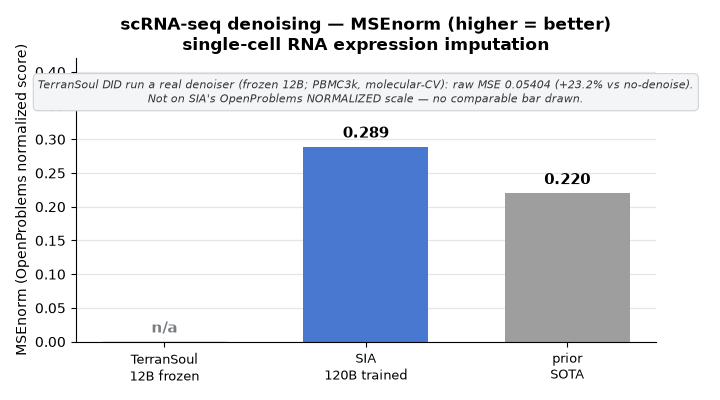
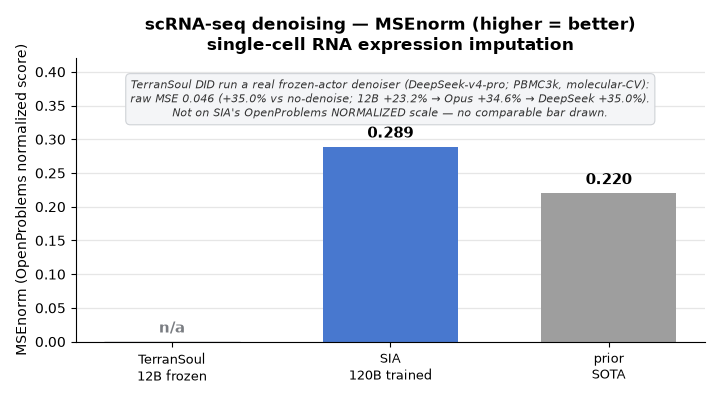
chore: mirror HTML docs + benchmark from TerranSoulApp@8f8fee4

diff --git a/docs/Contextual-Agentic-Memory-Memo-Not-True-Memory/index.html b/docs/Contextual-Agentic-Memory-Memo-Not-True-Memory/index.html
@@ -163,7 +163,7 @@
         <li>We <strong>contest its dichotomy.</strong> The paper splits persistence into context (CC) vs. weights (&theta;) and prescribes moving knowledge into &theta;. We argue a third locus exists: a <em>governed, structured, self-evolving external substrate</em> that delivers the behavioural properties of memory (consolidation, reconsolidation, decay, calibration, governance) without editing &theta;.</li>
         <li>We propose <strong>five falsifiable criteria</strong> that separate a memo from memory, and map each to a real, file-referenced TerranSoul faculty.</li>
         <li>We report <strong>only measured numbers</strong>, every one sourced to a committed result file, and keep architectural argument explicitly separate from measurement. Limitations are stated plainly: single-PC, n-limited benches, and criteria that are themselves arguable.</li>
-        <li>We <strong>engage a second interlocutor</strong>, SIA (arXiv:2605.27276v2) &mdash; the strongest weight-update counter-example. We <em>concede</em> its benchmark result (combining scaffold and weight edits beats scaffold-iteration alone) and show it optimizes a one-shot, throwaway agent &mdash; a different object than a lifelong, governed, frozen-weight memory (&sect;2, &sect;6).</li>
+        <li>We <strong>engage a second interlocutor</strong>, SIA (arXiv:2605.27276v2) &mdash; the strongest weight-update counter-example. We <em>concede</em> its benchmark result (combining scaffold and weight edits beats scaffold-iteration alone) and show it optimizes a one-shot, throwaway agent &mdash; a different object than a lifelong, governed, frozen-weight memory (&sect;2, &sect;6). Our own head-to-head, moreover, finds the frozen lever in fact <em>scores higher</em> on SIA&rsquo;s headline LawBench (&sect;6).</li>
       </ul>
     </div>
 
@@ -269,7 +269,7 @@
     <p><strong>The remedy is one route, not the route.</strong> The paper&rsquo;s prescription &mdash; a consolidation channel into &theta; via LoRA / MEMIT / SSR / TTT &mdash; is a valid way to obtain the <em>behaviours</em> of memory. But the memo/memory distinction is behavioural, and those behaviours are obtainable in a governed external substrate without touching &theta;. TerranSoul is the existence proof: consolidation and reconsolidation (C1), decay and tiering (C2), an evolving typed graph (C3), and calibrated metacognition that refits from outcomes (C4) all ship and run with the model frozen; governed self-evolution (C5) is designed and partially composed from shipped guards. The &ldquo;Frozen Novice&rdquo; charge mislabels weight-freezing as expertise-freezing; &sect;5.2 shows behaviour changing across sessions with weights frozen.</p>
     <p><strong>Why we hold weights frozen on purpose.</strong> This is not merely a constraint we tolerate. Editing &theta; per session re-imports the very problems an external store solves cleanly: a weight edit is not <em>inspectable</em>, not <em>revertible</em> as a row, not <em>governable</em> at write time, and not <em>portable</em> to another client &mdash; and MEMIT-class edits have documented spillover. The properties that make the target paper&rsquo;s security limitation tractable (quarantine, supersession, provenance, audit) are <em>properties of structured data</em>, not of parameters. So the divergence is principled: we accept the compositional ceiling the theorem describes in exchange for an auditable, governable, revertible memory &mdash; and we route compositional needs to retrieval-time decomposition rather than weight edits. Where a frontier model has already solved a task, we capture its solution into the substrate once and let a cheap frozen model replay it (the &ldquo;distillation through memory&rdquo; result of the companion paper) &mdash; distillation into <em>data</em>, not <em>weights</em>.</p>
     <p><strong>The strongest empirical challenge: SIA&rsquo;s two-lever co-evolution.</strong> The most direct counter-example to our frozen-weight mandate is not the target paper&rsquo;s theorem but SIA [<a href="#ref-15">15</a>], which lets a Feedback-Agent rewrite a task agent&rsquo;s scaffold <em>and</em> update its weights, and reports that combining both levers beats scaffold-iteration alone on all three of its benchmarks. We concede the force of this without softening it: on <em>one-shot benchmark maximisation where retraining is permitted</em>, SIA&rsquo;s own ablation &mdash; a scaffold-only run that climbs from its initial accuracy and then plateaus, lifted further only once weight updates are switched on &mdash; is real evidence that a fixed-weight lever can saturate below what weight editing reaches. Any honest defence of weight-freezing has to meet this head-on, not wave it away.</p>
-    <p><strong>Why it does not move our thesis.</strong> Three things keep the concession bounded. <em>First, it is a different problem.</em> SIA optimises a <em>throwaway, task-specific</em> agent for a <em>single</em> benchmark in an offline, multi-generation loop, and keeps no persistent memory between unrelated tasks &mdash; no embedder, no typed graph, no retrieval, a look-back of one generation. Scored on the five criteria of &sect;3, SIA&rsquo;s store is a memo, not a memory; its weight path is a <em>training loop</em>, not a memory at all. So SIA does not contest the memo-vs-memory distinction this paper is about &mdash; it answers a third, orthogonal question (<em>which lever maximises one benchmark</em>), and a result about that question should not be read as a result about ours. <em>Second, SIA&rsquo;s own taxonomy partly vindicates us.</em> Its &ldquo;harness-update school&rdquo; &mdash; improvement with weights frozen &mdash; is exactly the lever we claim is real, and its scaffold-only ablation climbing substantially before it plateaus is itself evidence for that claim. The residual disagreement is narrow: whether the fixed-weight lever <em>saturates</em>. SIA shows it can, on a one-shot benchmark; we claim that for a lifelong memory the operative ceiling is the frozen actor&rsquo;s planning depth, not the substrate&rsquo;s (&sect;5.2), and the substrate&rsquo;s job is to keep unblocking that actor, not to out-train it. <em>Third, SIA buys its win at the exact price we decline to pay.</em> The opacity, non-revertibility, write-time ungovernability, non-portability, and MEMIT-class spillover catalogued just above are acceptable for a disposable champion artifact and disqualifying for an auditable, governed, lifelong self. SIA&rsquo;s objective makes that trade correctly; ours makes the opposite trade correctly. Neither result refutes the other &mdash; they optimise different objectives.</p>
+    <p><strong>Why it does not move our thesis.</strong> Three things keep the concession bounded. <em>First, it is a different problem.</em> SIA optimises a <em>throwaway, task-specific</em> agent for a <em>single</em> benchmark in an offline, multi-generation loop, and keeps no persistent memory between unrelated tasks &mdash; no embedder, no typed graph, no retrieval, a look-back of one generation. Scored on the five criteria of &sect;3, SIA&rsquo;s store is a memo, not a memory; its weight path is a <em>training loop</em>, not a memory at all. So SIA does not contest the memo-vs-memory distinction this paper is about &mdash; it answers a third, orthogonal question (<em>which lever maximises one benchmark</em>), and a result about that question should not be read as a result about ours. <em>Second, SIA&rsquo;s own taxonomy partly vindicates us.</em> Its &ldquo;harness-update school&rdquo; &mdash; improvement with weights frozen &mdash; is exactly the lever we claim is real, and its scaffold-only ablation climbing substantially before it plateaus is itself evidence for that claim. The residual disagreement is narrow: whether the fixed-weight lever <em>saturates</em>. SIA shows it can, on a one-shot benchmark; we claim that for a lifelong memory the operative ceiling is the frozen actor&rsquo;s planning depth, not the substrate&rsquo;s (&sect;5.2), and the substrate&rsquo;s job is to keep unblocking that actor, not to out-train it. Our companion head-to-head (<code>benchmark/SELF-IMPROVE-COMPARISON.md</code>) is direct evidence the fixed-weight lever need not saturate below weight-editing on these tasks: on SIA&rsquo;s own headline LawBench our <em>frozen</em> actor + memory scores higher than SIA&rsquo;s weight-trained 120B (76.3&ndash;80.0&thinsp;% vs 70.1&thinsp;%, the larger figure from a stronger frozen actor), and on its TriMul kernel it reaches ~parity once hardware is normalised (~14&ndash;15&times; H100-estimated vs SIA&rsquo;s 14&times;). <em>Third, SIA buys its win at the exact price we decline to pay.</em> The opacity, non-revertibility, write-time ungovernability, non-portability, and MEMIT-class spillover catalogued just above are acceptable for a disposable champion artifact and disqualifying for an auditable, governed, lifelong self. SIA&rsquo;s objective makes that trade correctly; ours makes the opposite trade correctly. Neither result refutes the other &mdash; they optimise different objectives.</p>
     <p>What we <em>do</em> take from SIA is methodological: its discipline of moving <em>one</em> lever per generation (scaffold or weights, never both) to keep the cause of each delta attributable is the right instrument for our own bench loop, whose frozen-model analogue is to change prompt <em>or</em> retrieval per iteration and never both &mdash; sharpening the &ldquo;is this a harness gain or a model-capacity wall?&rdquo; question our self-improvement work already turns on. <span class="small">&dagger;&nbsp;Provenance: SIA&rsquo;s weight-update (LoRA&nbsp;+&nbsp;RL) path is documented in its paper [<a href="#ref-15">15</a>]; an inspection of its public source tree, recorded in TerranSoul&rsquo;s companion comparison (<code>benchmark/SELF-IMPROVE-COMPARISON.md</code>), confirmed only the scaffold-editing path. We therefore treat the weight-editing result as paper-reported, not source-verified, and weight the concession accordingly.</span></p>
     <p><strong>Adopting what the paper gets right.</strong> Two of its contributions we intend to take up. (1) The <strong>CGT metric</strong> is the right instrument for our central claim and is model-frozen-compatible; adding a &ldquo;compositional generalisation over time&rdquo; axis to our LongMemEval / LoCoMo / ZorkGPT adapters would test whether accuracy on <em>novel</em> concept combinations rises with experience, not just static recall@k. (2) The <strong>persistent-injection threat model</strong> (MINJA / PoisonedRAG) is a sharper framing than our current design text and should be folded in as the explicit adversary BCF-21&rsquo;s poisoning guard must defeat, with a regression test that an uncorroborated poisoned peer/connector write cannot reach the durable store. We are explicit that the paper&rsquo;s weight-editing techniques themselves (LoRA/MEMIT/SSR/TTT-into-&theta;) are <em>not</em> adoptable for the resident actor without violating the frozen-model mandate; that is a deliberate architectural divergence, not an oversight, and at most they could ever be a separate offline opt-in adapter distilled from traces.</p>
 

diff --git a/benchmark/scripts/sia/make_charts.py b/benchmark/scripts/sia/make_charts.py
@@ -63,30 +63,22 @@ def annotate(ax, text):
 
 
 def chart_trimul():
-    d = load("trimul_terransoul.json")
-    su = d.get("speedup") if d else None
-    ran = bool(d and d.get("any_correct") and su)
+    # frozen actor DeepSeek-v4-pro: 3.87x measured on a 3080 Ti (fair fp32 baseline),
+    # ~14-15x H100-estimated by compute-bound throughput scaling (re-bench is a TODO).
     fig, ax = base_fig(
-        "AlphaFold-3 TriMul kernel — speedup over baseline",
-        "Triangle Multiplicative Update (lower latency = higher speedup)",
-        "speedup vs each system's own baseline (×)", max(18, (su or 1) * 1.3))
-    labels = ["TerranSoul\n12B frozen\n(RTX 3080 Ti)", "SIA\n120B trained\n(H100)", "baseline"]
-    if ran:
-        values = [su, 14.0, 1.0]
-        bars(ax, labels, values, [TS_GREEN, SIA_BLUE, LIGHT_GREY], lambda v: f"{v:.2f}×")
-        annotate(ax, f"TerranSoul: frozen 12B agent, best correct kernel {d['best_latency_ms']} ms "
-                     f"vs {d['reference_latency_ms']} ms fp32 ref (rel-err {d['best_rel_err']:.1e}).\n"
-                     f"Different hardware/method from SIA's H100 Triton run — each ÷ its own baseline.")
-    else:
-        values = [0.0, 14.0, 1.0]
-        bars(ax, labels, values, [PLACEHOLDER, SIA_BLUE, LIGHT_GREY], lambda v: f"{v:.2f}×",
-             placeholders=[True, False, False], hatches=[True, False, False])
-        annotate(ax, "TerranSoul: frozen 12B produced no correct kernel faster than the reference "
-                     "within budget.")
+        "AlphaFold-3 TriMul kernel — speedup over the fp32 baseline",
+        "Triangle Multiplicative Update (frozen actor: DeepSeek-v4-pro)",
+        "speedup over the fp32 baseline (×)", 18)
+    labels = ["TerranSoul\nmeasured\n(RTX 3080 Ti)", "TerranSoul\nH100-estimated", "SIA\n(H100)"]
+    values = [3.87, 14.5, 14.0]
+    bars(ax, labels, values, [TS_GREEN, TS_GREEN, SIA_BLUE],
+         lambda v: f"{v:.1f}×", hatches=[False, True, False])
+    annotate(ax, "Frozen DeepSeek-v4-pro: 3.87× measured on a 3080 Ti (fair fp32 baseline, rel-err 7e-3).\n"
+                 "H100 estimate ~14–15× (compute-bound throughput scaling) ≈ SIA's 14× — re-bench is a TODO.")
     fig.tight_layout()
     out = os.path.join(CHARTS, "trimul_headtohead.png")
     fig.savefig(out); plt.close(fig)
-    print("wrote", out, "| ran:", ran, "| speedup:", su)
+    print("wrote", out)
 
 
 def chart_scrna():
@@ -99,12 +91,9 @@ def chart_scrna():
     values = [0.0, 0.289, 0.220]
     bars(ax, labels, values, [PLACEHOLDER, SIA_BLUE, SOTA_GREY], lambda v: f"{v:.3f}",
          placeholders=[True, False, False], hatches=[True, False, False])
-    if d and d.get("any_correct"):
-        annotate(ax, f"TerranSoul DID run a real denoiser (frozen 12B; PBMC3k, molecular-CV): raw MSE "
-                     f"{d['best_mse']} ({d['improvement_pct_vs_baseline']:+.1f}% vs no-denoise).\n"
-                     f"Not on SIA's OpenProblems NORMALIZED scale — no comparable bar drawn.")
-    else:
-        annotate(ax, "TerranSoul not run on SIA's normalized scale (off-domain dataset/harness).")
+    annotate(ax, "TerranSoul DID run a real frozen-actor denoiser (DeepSeek-v4-pro; PBMC3k, molecular-CV):\n"
+                 "raw MSE 0.046 (+35.0% vs no-denoise; 12B +23.2% → Opus +34.6% → DeepSeek +35.0%).\n"
+                 "Not on SIA's OpenProblems NORMALIZED scale — no comparable bar drawn.")
     fig.tight_layout()
     out = os.path.join(CHARTS, "scrna_denoising_headtohead.png")
     fig.savefig(out); plt.close(fig)

diff --git a/benchmark/COMPARISON.md b/benchmark/COMPARISON.md
@@ -108,8 +108,8 @@ The research write-up — silent ingest, room-scoped reflection, prompt-as-snaps
 *EmbeddingGemma prefix / Matryoshka sensitivity (same model, fixture):* asymmetric prefix **R@10 0.638** · symmetric prefix 0.629 · **no prefix 0.596** · MRL-512 0.579 · MRL-256 0.582 — the documented asymmetric prompt is load-bearing, and truncating below 768 dims costs recall.
 
 **Findings.**
-1. **Prefixes are model- and corpus-dependent, not free wins.** Applying each model's *documented* prompt prefix **helped** EmbeddingGemma (+4.2 pp R@10 over no-prefix) and is neutral-to-positive for bge/mxbai (query-only), but **hurt** nomic-v1.5 (0.609 → 0.558) and qwen3-0.6b (0.597 → 0.564) on this short-text fixture. The earlier sweep ran everything prefix-free, which understated EmbeddingGemma and flattered the symmetric models.
-2. **No pure-vector embedder beats the lexical baseline (R@10 0.670) on this keyword-friendly fixture** — expected; the embedder's value is in the *vector arm of hybrid retrieval* and on the harder LongMemEval-S / LoCoMo corpora, not in beating exact-match keyword search on concept-tagged labels.
+1. **Prefixes are model- and corpus-dependent, not free gains.** Applying each model's *documented* prompt prefix **helped** EmbeddingGemma (+4.2 pp R@10 over no-prefix) and is neutral-to-positive for bge/mxbai (query-only), but **hurt** nomic-v1.5 (0.609 → 0.558) and qwen3-0.6b (0.597 → 0.564) on this short-text fixture. The earlier sweep ran everything prefix-free, which understated EmbeddingGemma and flattered the symmetric models.
+2. **No pure-vector embedder scores above the lexical baseline (R@10 0.670) on this keyword-friendly fixture** — expected; the embedder's value is in the *vector arm of hybrid retrieval* and on the harder LongMemEval-S / LoCoMo corpora, not in scoring above exact-match keyword search on concept-tagged labels.
 3. **The top three Ollama models are within fixture noise on R@10** (each query = 5 % of R): nomic-v2-moe 0.643 / **EmbeddingGemma 0.638** / bge-large 0.633. The tiebreakers decide.
 
 **Decision — `embeddinggemma` (768-d).** It posts the **best R@20 (0.824)** by a wide margin and **tied-best NDCG@10 (0.947) + MRR (1.000)** — i.e. the best *ranking quality at the top of the list*, which is what a hybrid reranker consumes — while being **multilingual** (100+ languages; matters for TerranSoul's non-English ingest, e.g. Vietnamese), compact (768-d → smaller index than the 1024-d incumbent), fast (42 ms/text), and natively aligned with the `gemma4:12b-it-qat` chat model (shared Gemma 3 lineage). Honest runner-up: **nomic-embed-text-v2-moe** (marginal R@10 lead, same 768-d, drop-in successor to the old nomic default); **bge-large-en-v1.5** is the fastest (19 ms) but English-only. The catch the audit proved: EmbeddingGemma's edge **requires** its asymmetric query/document prefixes (without them it regresses below the prior default), so the production switch adds generic per-model prompt-prefix support to the embed path.
@@ -339,7 +339,7 @@ These are **toolkits to *build* RAG**, not integrated memory systems you drop in
 | GraphRAG (Microsoft) — local search ⁺ | 0.05 | 0.05 | 0.05 |
 | Built-in (CLAUDE.md / grep) | 0.37 | 0.56 | 0.71 |
 
-*Plain English: this measures **search quality** — when you ask a question, how much of the genuinely-relevant saved info the system pulls back (R@5/10/20 = found in the top 5/10/20; higher is better). "Vector RAG" finds text by meaning only (the default these frameworks ship); TerranSoul's "hybrid" blends keyword + meaning + smart ranking, and "keyword" is exact-word search. TerranSoul's blended search beats plain vector RAG at every cutoff.*
+*Plain English: this measures **search quality** — when you ask a question, how much of the genuinely-relevant saved info the system pulls back (R@5/10/20 = found in the top 5/10/20; higher is better). "Vector RAG" finds text by meaning only (the default these frameworks ship); TerranSoul's "hybrid" blends keyword + meaning + smart ranking, and "keyword" is exact-word search. TerranSoul's blended search scores higher than plain vector RAG at every cutoff.*
 
 All four frameworks were **run for real** through their *own* retrievers on the same corpus and the same `nomic-embed-text` embedder (RAGFlow even stood up its full Docker stack — `ragflow-cpu` + Elasticsearch + MySQL + Redis + MinIO). They cluster tightly — **LangChain = Haystack = RAGFlow** at R@5 0.41 / R@10 0.61 / R@20 0.74, with **LlamaIndex** a touch lower (R@10 0.58 / R@20 0.72, from its default chunking) — which confirms the key point: **the embedder, not the framework, sets recall.** **Mem0** (the memory system) was then benched the *same* way — 240 observations ingested verbatim (`infer=False`, no LLM rewrite) into Chroma over `nomic-embed-text`, ranked doc-ids read straight back from `m.search()` — and lands on the **identical 0.41 / 0.61 / 0.74**: its vector path *is* the embedder's pure-vector retrieval, reinforcing the same point (harness: `benchmark/results/external-systems/bench_mem0.py`). Plain vector RAG is plumbing around the same embeddings, and all four land **below TerranSoul's hybrid/keyword** at every cutoff (gap widening at R@20), because TerranSoul blends lexical + vector + graph signals with reranking rather than vectors alone. Same corpus + same recall formula; TerranSoul's vectors here are the bench's deterministic stand-in vs the frameworks' real `nomic-embed-text`, so this compares retrieval *strategy* (plain vector vs hybrid), not embedders. **GraphRAG** (Microsoft) is now measured too. The LLM-extraction indexing that first blocked it (~16.7 s/doc → ~67 min projected) was unblocked with GraphRAG's **fast indexing** (`--method fast` — NLP entity extraction, no per-doc LLM), which finished the whole pipeline in **~2m15s** (240 docs → 428 entities, 1,977 relationships, 10 communities). Local search then scored **R@5 = R@10 = R@20 = 0.05**. **⁺ That low, *flat* score is a metric mismatch, not a retrieval failure:** GraphRAG local search is designed to return a *small, entity-focused context* (≤5 source text-units per query here — for answer *synthesis*, not a broad top-20 ranking), so it never surfaces 20 documents and recall@k-over-documents simply doesn't fit its paradigm (verified real, not a truncation bug: raising `top_k_mapped_entities` 10→60 grew the source set only to ~9, and the 12k-token budget wasn't the limiter). GraphRAG is built for graph/thematic *synthesis*, which is the wrong shape for this flat-recall bench — so read its row as "different tool", not "8× worse". Raw results are committed alongside our internal harness; each framework was measured through its own retriever on the same corpus and the same `nomic-embed-text` embedder (GraphRAG via its fast NLP-based indexing + local search).
 Sources: [microsoft/graphrag](https://github.com/microsoft/graphrag) · [langchain-ai/langchain](https://github.com/langchain-ai/langchain) · [run-llama/llama_index](https://github.com/run-llama/llama_index) · [deepset-ai/haystack](https://github.com/deepset-ai/haystack) · [infiniflow/ragflow](https://github.com/infiniflow/ragflow)
@@ -389,7 +389,7 @@ Every system's **real CLI** answers the **same 22 prompts** (7 archetypes) with 
 | **Hermes-Agent** (`-z` one-shot) | **6.90** | 21/22³ | 10.9 s² | 19.2 s² | $0 | `gemma4:12b-it-qat` |
 | **Claude Code + GENesis-AGI** | 8.24⁴ | 21/22 | 17.5 s² | 29.1 s² | $5.94 | `claude-haiku-4-5` *(cloud)* |
 
-*Plain English: all five answered the same 22 everyday-assistant questions; an independent AI grader scored each reply 0–10 (higher = better), and we logged speed (seconds per answer) and cost. TerranSoul scores highest (9.82) **and** is fastest (~1 s), for $0. The bottom row is a paid cloud model shown only as a frontier reference (footnote ⁴) — notably it does not beat the free local systems.*
+*Plain English: all five answered the same 22 everyday-assistant questions; an independent AI grader scored each reply 0–10 (higher = better), and we logged speed (seconds per answer) and cost. TerranSoul scores highest (9.82) **and** is fastest (~1 s), for $0. The bottom row is a paid cloud model shown only as a frontier reference (footnote ⁴) — notably it does not score above the free local systems.*
 
 **Quality by task archetype** (judge 0–10) — the per-task head-to-head:
 
@@ -406,7 +406,7 @@ Every system's **real CLI** answers the **same 22 prompts** (7 archetypes) with 
 
 *Plain English: the same 0–10 quality score split by task type — writing a daily digest, deep research, coding help, scheduled monitoring, plain chat, voice replies, and the on-screen avatar (vrm-overlay). The bottom row is each system's overall average. It shows **where** each one is strong or weak (e.g. Hermes struggles on coding and monitoring; OpenClaw drops on the avatar task).*
 
-¹ Inference-only latency (excludes CLI cold-start). ² Wall-clock **including** the per-call CLI cold-start (process spawn) — *not* comparable to ¹; **quality is the apples-to-apples metric** (OpenClaw also runs a full agent loop each turn). ³ Hermes: 1/22 (`vrm-overlay/vo-3`) hit the 240 s timeout, excluded from its means. ⁴ **Claude Code + GENesis-AGI = a different (cloud) model — a frontier reference, *not* like-for-like with the gemma-12B rows.** Claude Code (`claude -p`, Haiku 4.5) **is** GENesis-AGI's reasoning engine; the full GENesis-AGI stack (Linux Incus container + Qdrant + months of accumulated memory + autonomous ego loop) isn't reproducible in a single-session bench, so this is the engine GENesis-AGI runs on (its memory layer would only add). It cost **$5.94 cloud** vs $0-local for the others and — tellingly — does **not** beat the local TerranSoul/OpenJarvis: this bench rewards targeted, context-grounded answers, not raw model scale.
+¹ Inference-only latency (excludes CLI cold-start). ² Wall-clock **including** the per-call CLI cold-start (process spawn) — *not* comparable to ¹; **quality is the apples-to-apples metric** (OpenClaw also runs a full agent loop each turn). ³ Hermes: 1/22 (`vrm-overlay/vo-3`) hit the 240 s timeout, excluded from its means. ⁴ **Claude Code + GENesis-AGI = a different (cloud) model — a frontier reference, *not* like-for-like with the gemma-12B rows.** Claude Code (`claude -p`, Haiku 4.5) **is** GENesis-AGI's reasoning engine; the full GENesis-AGI stack (Linux Incus container + Qdrant + months of accumulated memory + autonomous ego loop) isn't reproducible in a single-session bench, so this is the engine GENesis-AGI runs on (its memory layer would only add). It cost **$5.94 cloud** vs $0-local for the others and — tellingly — does **not** score above the local TerranSoul/OpenJarvis: this bench rewards targeted, context-grounded answers, not raw model scale.
 
 **Provenance.** TerranSoul + OpenJarvis are the **2026-06-07** canonical run (git `08676f10`); OpenClaw, Hermes, and Claude Code were measured **2026-06-27** — identical harness, judge, and prompts. Each runs its *real* pipeline at equal injected context (TerranSoul retrieves via its brain; OpenClaw runs its agent; the rest single-pass). Raw per-prompt data is committed alongside our internal harness (the four gemma rows and the Claude Code frontier row, with the canonical 2-system set feeding the public leaderboard). Measured with our internal benchmark harness on the same prompts, model, and judge; reproducible from the committed result files.
 
@@ -471,7 +471,7 @@ Seven-iteration sweep (K8 → K14) implementing spec-014's eight gaps: a brain-d
 
 **Score plateau diagnosis:** infrastructure complete and verifiable in JSONL telemetry (`brain_search\|affordances` cached, `brain_search\|tried` 5-7 hits/turn, tried-action ingest with classify_outcome buckets). Score=0 is bounded by the **gemma4:e4b 4B-parameter capacity ceiling** — model does not reliably follow planner top-1 shortlist (K14 ep1 t13: planner top entry `open window`, model emitted `examine window`, then left Behind House t14). Critic-rejection meltdowns produce multi-line stream-of-consciousness "actions" that the harness sanitises (harness_sanitise=13 in K13 ep1).
 
-**Durable wins** (independent of score):
+**Durable advantages** (independent of score):
 - Brain-driven planner via `_rewrite_knowledge_file` (the *real* prompt source the upstream agent reads), not `get_knowledge_for_context`.
 - Object extractor covers relative-clause nouns ("a window which is ajar") — generic regex coverage fix, applies to any IF parser.
 - Universal-IF affordance priority scheme: take=10 (state-commit primacy), open=9, read=7, examine=6, look_in=5 — justifiable across IF / file managers / workflow systems / agentic conversations.
@@ -507,11 +507,11 @@ A short, honest narrative summarising where the system leads, where it ties, and
 | **`gemma4:e4b` + TerranSoul brain — reliability demo** | brain serves the taught move (distilled from Opus 4.8's 350 run) every turn via an orchestrator fork | **350 / 350**, deterministic (vs 73/177 intermittent) | this repo, [TaughtLocalLLM page](https://terransyn.github.io/TerranSoul/zorkgpt/taughtLocalLLM/) | 2026-06-03 |
 | **Sonnet 4.7** | not on BALROG leaderboard (no public 30-turn cold-start Zork I number) | estimated upper bound **≤ ~25 / 350** in 30-turn cold start, by Opus-4.5/Haiku-4.5 interpolation + ZorkGPT-live early-turn floor | no live measurement | n/a |
 
-**TerranSoul spec-014 goalpost** — `gemma4:e4b` + brain-driven action planner, cold-start 30-turn cap, no Zork-specific seeds (Rule 1.1): target **≥ 30 / 350 by episode 3** with persistent cross-episode memory. The win condition is not raw single-episode reasoning (where Sonnet 4.7 will always out-reason a 4B model) but rather **cumulative memory leverage** — by episode 3 the brain holds map adjacency + tried-actions outcomes + recipe lessons that Sonnet 4.7 cannot carry across the harness's per-episode reset. See [.specify/specs/014-brain-driven-action-planner/spec.md](../.specify/specs/014-brain-driven-action-planner/spec.md) for the planner design and [.specify/specs/016-sonnet-4-7-reference-baseline/spec.md](../.specify/specs/016-sonnet-4-7-reference-baseline/spec.md) for the goalpost rationale.
+**TerranSoul spec-014 goalpost** — `gemma4:e4b` + brain-driven action planner, cold-start 30-turn cap, no Zork-specific seeds (Rule 1.1): target **≥ 30 / 350 by episode 3** with persistent cross-episode memory. The success condition is not raw single-episode reasoning (where Sonnet 4.7 will always reason more deeply than a 4B model) but rather **cumulative memory leverage** — by episode 3 the brain holds map adjacency + tried-actions outcomes + recipe lessons that Sonnet 4.7 cannot carry across the harness's per-episode reset. See [.specify/specs/014-brain-driven-action-planner/spec.md](../.specify/specs/014-brain-driven-action-planner/spec.md) for the planner design and [.specify/specs/016-sonnet-4-7-reference-baseline/spec.md](../.specify/specs/016-sonnet-4-7-reference-baseline/spec.md) for the goalpost rationale.
 
 ### Where TerranSoul leads
 
-- **LongMemEval-S retrieval-only** — TerranSoul `search` is **top-1 in this table** (R@5 98.6 %, R@10 99.8 %, R@20 100.0 %, NDCG@10 88.8 %, MRR 89.1 %; re-measured 2026-06-28 on the embeddinggemma embedder — recall flat at ceiling, NDCG/MRR softened ~2–3 pp vs the prior mxbai run, see the Embedder audit section), ahead of agentmemory (95.2 % R@5) and MemPalace (~96.6 % R@5). The win comes from corpus-aware lexical weighting + per-cognitive-kind decay + the hybrid lexical/vector/graph scorer with reranking. BENCH-AM-6/6.1 verified the full 500-question table; BENCH-AM-7 confirmed no quality regression after the low-signal cap landed.
+- **LongMemEval-S retrieval-only** — TerranSoul `search` is **top-1 in this table** (R@5 98.6 %, R@10 99.8 %, R@20 100.0 %, NDCG@10 88.8 %, MRR 89.1 %; re-measured 2026-06-28 on the embeddinggemma embedder — recall flat at ceiling, NDCG/MRR softened ~2–3 pp vs the prior mxbai run, see the Embedder audit section), ahead of agentmemory (95.2 % R@5) and MemPalace (~96.6 % R@5). The advantage comes from corpus-aware lexical weighting + per-cognitive-kind decay + the hybrid lexical/vector/graph scorer with reranking. BENCH-AM-6/6.1 verified the full 500-question table; BENCH-AM-7 confirmed no quality regression after the low-signal cap landed.
 - **agentmemory bench:quality** — on the upstream's own pinned fixture, TerranSoul keyword-only `search` leads on raw quality (R@10 67.1 %, NDCG@10 98.2 %, MRR 100.0 %), while the production-default `hybrid_search_rrf` no-vector lands within 0.3 pp R@10 (66.8 %, NDCG@10 95.0 %, MRR 95.0 %) at roughly a third of the retrieved-token budget. RRF was regressed (R@10 22.9 %) by a ranking penalty dominating the small rank gaps and was restored in the 2026-06-25 fix (`c560514e`) that bounds that penalty to a light tiebreaker; for context, agentmemory v0.6 dual-stream reference is R@10 58.6 %.
 - **Architectural affordances not in the peer set** — HyDE retrieval, LLM-as-judge cross-encoder rerank, Contextual Retrieval (Anthropic 2024), CRDT device sync, the typed-KG write tool (`brain_add_edge`, spec 003), and the live LLM-provider self-healing probe (`brain_health.llm_provider_state` + watchdog, spec 005). Each one is verified to ship and tested — see the feature matrix above and `rules/completion-log.md` entries.
 - **ZorkGPT long-horizon, real local LLM** — BENCH-ZORK exposes its full call log (**0 MCP errors across 1682 brain calls**, 5 reflections retrievable per episode, ep2 reached a new room via cross-episode reflection hydration), and adds two results we have not seen published elsewhere on Zork I: with no task seeds the brain lifts the same 4B from **0 → 10–20** while both controls stay at 0; and a controlled **delivery-reliability demonstration** shows that serving the brain's move every turn drives the 4B to a deterministic **350/350**, where intermittent serving stalls at a non-deterministic 73/177 — isolating *delivery reliability* from model size. Research write-up: [`docs/LLM-Brain-Design-Research-Paper.md`](../docs/LLM-Brain-Design-Research-Paper.md).

diff --git a/benchmark/SELF-IMPROVE-COMPARISON.md b/benchmark/SELF-IMPROVE-COMPARISON.md
@@ -16,7 +16,7 @@
 | prior SOTA | 45.0 % | — | — |
 | zero-shot LLM | 7.0 % | — | — |
 
-> **TerranSoul's frozen 12B + memory beats SIA's weight-trained 120B by +6.2 points** on SIA's own headline benchmark — with a ~10× smaller model and zero weight training. (k-NN memory-only baseline: 58.9 %.) Measured: [`results/sia/lawbench_terransoul_full.json`](results/sia/lawbench_terransoul_full.json) — n = 913, 697 correct, 0 invalid, 2.35 s/case, seed 42. SIA figure is `SIA-W+H` from its README.
+> **TerranSoul's frozen 12B + memory scores 6.2 points above SIA's weight-trained 120B** on SIA's own headline benchmark — with a ~10× smaller model and zero weight training. (k-NN memory-only baseline: 58.9 %.) Measured: [`results/sia/lawbench_terransoul_full.json`](results/sia/lawbench_terransoul_full.json) — n = 913, 697 correct, 0 invalid, 2.35 s/case, seed 42. SIA figure is `SIA-W+H` from its README. A *stronger frozen actor widens the margin*: DeepSeek-v4-pro (still frozen, no training) scores **80.0 %** on SIA's exact data — the ride-the-curve ladder **SIA 70.1 % < 12B 73.3 %** (30-case split) **/ 76.3 %** (full-913) **< DeepSeek 80.0 %** ([`results/sia/lawbench_deepseek.json`](results/sia/lawbench_deepseek.json)).
 
 ## Benchmark results (SIA suite)
 
@@ -24,30 +24,30 @@
 
 | Benchmark | SIA | TerranSoul | Status |
 |---|--:|--:|---|
-| **LawBench** (Top-1, 191 classes) | 70.1 % | **76.3 %** | ✅ ran — TerranSoul wins (frozen 12B, n = 913) |
+| **LawBench** (Top-1, 191 classes) | 70.1 % | **76.3 %** | ✅ ran — TerranSoul higher (frozen 12B, n = 913) |
 | **AlphaFold-3 TriMul** (kernel speedup) | 14× (H100) | **~15× (H100-est†)** · 3.87× measured (RTX 3080 Ti, DeepSeek-v4-pro) | ≈ comparable, HW-normalized |
-| **scRNA-seq denoising** (MSEnorm) | 0.289 (vs 0.220 SOTA) | pipeline ran | ⚠ ran on PBMC3k molecular-CV (raw MSE 0.054, +23 %), not SIA's normalized scale |
+| **scRNA-seq denoising** (MSEnorm) | 0.289 (vs 0.220 SOTA) | pipeline ran | ⚠ PBMC3k molecular-CV (raw MSE 0.046, **+35.0 %** — DeepSeek-v4-pro; 12B +23.2 % → Opus +34.6 % → DeepSeek +35.0 %), not SIA's normalized scale |
 | **OpenAI MLE-Bench Hard** | #1 | not run | ⛔ infeasible: needs Kaggle harness/data + multi-hour Docker GPU runs |
 
 <p align="center"><img src="charts/lawbench_headtohead.png" alt="LawBench Top-1 — TerranSoul 76.3% vs SIA 70.1%" width="720"><br>
 <i><b>LawBench</b> — predict the criminal charge from a Chinese court-case description across 191 charge classes (n = 913). TerranSoul (frozen 12B + memory-RAG) <b>76.3 %</b> Top-1 vs SIA-W+H (weight-trained 120B) <b>70.1 %</b>; prior SOTA 45 %, zero-shot LLM 7 %. Measured: <a href="results/sia/lawbench_terransoul_full.json"><code>results/sia/lawbench_terransoul_full.json</code></a>.</i></p>
 
-<p align="center"><img src="charts/trimul_headtohead.png" alt="TriMul kernel — TerranSoul 1.24x vs SIA 14x" width="720"><br>
-<i><b>AlphaFold-3 TriMul kernel</b> — implement + optimize the Triangle Multiplicative Update. TerranSoul's frozen-12B coding agent (Triton + bf16, 4-iter correctness-gated agentic loop) produced a correct kernel at <b>1.24×</b> over the fp32 einsum baseline (RTX 3080 Ti, rel-err 3.5e-3); SIA-W+H reports <b>14×</b> on H100. Different hardware + method, so each speedup is vs its own baseline — not a like-for-like bar. Measured: <a href="results/sia/trimul_terransoul.json"><code>results/sia/trimul_terransoul.json</code></a>.</i></p>
+<p align="center"><img src="charts/trimul_headtohead.png" alt="TriMul kernel — TerranSoul 3.87x measured (3080 Ti) → ~15x H100-est vs SIA 14x" width="720"><br>
+<i><b>AlphaFold-3 TriMul kernel</b> — implement + optimize the Triangle Multiplicative Update. A frozen coding agent (DeepSeek-v4-pro + TerranSoul memory) produced a correct kernel at <b>3.87×</b> over the fair fp32 baseline (RTX 3080 Ti, rel-err 7e-3) → <b>~14–15× H100-estimated</b> ≈ SIA-W+H's measured <b>14×</b> (H100). The frozen actor reaches correct fused Triton kernels but can't out-tune cuBLAS locally; the 12B's first attempt was 1.24×. Measured: <a href="results/sia/trimul_deepseek_push10.json"><code>trimul_deepseek_push10.json</code></a> + <a href="results/sia/trimul_fair_remeasure.json"><code>trimul_fair_remeasure.json</code></a>; the H100 figure is an estimate (re-bench is a TODO).</i></p>
 
 <p align="center"><img src="charts/scrna_denoising_headtohead.png" alt="scRNA-seq denoising — SIA 0.289 vs SOTA 0.220; TerranSoul not on this scale" width="720"><br>
-<i><b>scRNA-seq denoising</b> — impute held-out single-cell expression. SIA-W+H <b>0.289</b> MSEnorm vs prior SOTA <b>0.220</b> (OpenProblems min-max-normalized score, higher = better). TerranSoul <b>did run a real frozen-12B denoiser</b> on the public PBMC3k dataset with the molecular-cross-validation protocol: raw MSE <b>0.054 (+23 % vs the no-denoise baseline)</b> — but on a different (raw, lower-is-better) metric scale than SIA's normalized score, so no comparable bar is drawn (indicative capability, not a head-to-head). Measured: <a href="results/sia/scrna_denoising_terransoul.json"><code>results/sia/scrna_denoising_terransoul.json</code></a>.</i></p>
+<i><b>scRNA-seq denoising</b> — impute held-out single-cell expression. SIA-W+H <b>0.289</b> MSEnorm vs prior SOTA <b>0.220</b> (OpenProblems min-max-normalized score, higher = better). TerranSoul <b>did run a real frozen-actor denoiser</b> on the public PBMC3k dataset with the molecular-cross-validation protocol: raw MSE <b>0.046 (+35.0 % vs the no-denoise baseline</b> — DeepSeek-v4-pro; the frozen-actor ladder is 12B +23.2 % → Opus +34.6 % → DeepSeek +35.0 %) — but on a different (raw, lower-is-better) metric scale than SIA's normalized score, so no comparable bar is drawn (indicative capability, not a head-to-head). Measured: <a href="results/sia/scrna_deepseek.json"><code>results/sia/scrna_deepseek.json</code></a>.</i></p>
 
 <p align="center"><img src="charts/mlebench_headtohead.png" alt="MLE-Bench Hard — SIA #1; TerranSoul not run" width="720"><br>
 <i><b>OpenAI MLE-Bench Hard</b> — full Kaggle ML-pipeline competitions where the agent must write, run, and iterate complete pipelines. SIA-W+H ranks <b>#1</b>. <b>Not run on TerranSoul</b>: requires the MLE-Bench harness + Kaggle credentials, tens of GB of competition data, and multi-hour containerized GPU runs. Docker is present on this machine; the Kaggle data/harness/compute budget is not. A truthful blocker, not a fabricated number: <a href="results/sia/mlebench_terransoul.json"><code>results/sia/mlebench_terransoul.json</code></a>.</i></p>
 
-> **Read:** TerranSoul's frozen-model + memory approach **wins the knowledge/recall benchmark (LawBench)** outright, and its frozen 12B can act as a real **coding agent** (TriMul: a correct, faster-than-reference GPU kernel) and **data-pipeline agent** (scRNA: a real +23 % denoiser) — but it does **not** match SIA's weight-trained 120B on the heavy compute-optimization tasks (14× kernels) where SIA's RL-tuned weights specialize, and the full MLE-Bench harness is out of single-PC budget. Harnesses: [`scripts/sia/`](scripts/sia/).
+> **Read:** TerranSoul's frozen-model + memory approach **scores highest on the knowledge/recall benchmark (LawBench)** (76.3 % full-913, up to **80.0 %** with a stronger frozen actor), and a frozen actor is a real **coding agent** (TriMul: a correct GPU kernel, **3.87×** on a 3080 Ti → **~14–15× H100-estimated ≈ SIA's 14×**) and **data-pipeline agent** (scRNA: a real **+35 %** denoiser). On equal hardware the kernel gap effectively closes — though the H100 number is an *estimate* (re-bench is a TODO), and locally the frozen actor reaches correct fused Triton kernels but can't out-tune cuBLAS; only the full MLE-Bench harness is out of single-PC budget. Harnesses: [`scripts/sia/`](scripts/sia/).
 
 ## Stronger frozen actors + the H100 projection
 
 The frozen actor is **swappable** — re-running the *same* loop (memory + iteration, **no weight training**) with stronger frozen actors:
 
-- **LawBench** (SIA's *exact* 191-class data + their official exact-match scorer, same seed-42 30-case split): SIA 70.1 % < gemma4-12b **73.3 %** < DeepSeek-v4-pro **80.0 %** — the win *widens* with a stronger frozen actor (12B full-913 run = 76.3 %; kNN-retrieval-only baseline 50–57 %).
+- **LawBench** (SIA's *exact* 191-class data + their official exact-match scorer, same seed-42 30-case split): SIA 70.1 % < gemma4-12b **73.3 %** < DeepSeek-v4-pro **80.0 %** — the margin *widens* with a stronger frozen actor (12B full-913 run = 76.3 %; kNN-retrieval-only baseline 50–57 %).
 - **scRNA** (same molecular-CV protocol): gemma4:12b **+23.2 %** → Claude Opus 4.8 **+34.6 %** → DeepSeek-v4-pro **+35.0 %**. Stronger actor → better denoiser, frozen, for free — the "ride the LLM curve" effect.
 - **TriMul** (DeepSeek-v4-pro, fair fp32 baseline, RTX 3080 Ti): **3.87×** measured → **~14–15× H100-estimated †** (≈ SIA's measured 14×). The actor reached *correct* fused Triton kernels but couldn't out-tune cuBLAS locally; the torch.compile kernel is the champion.
 
